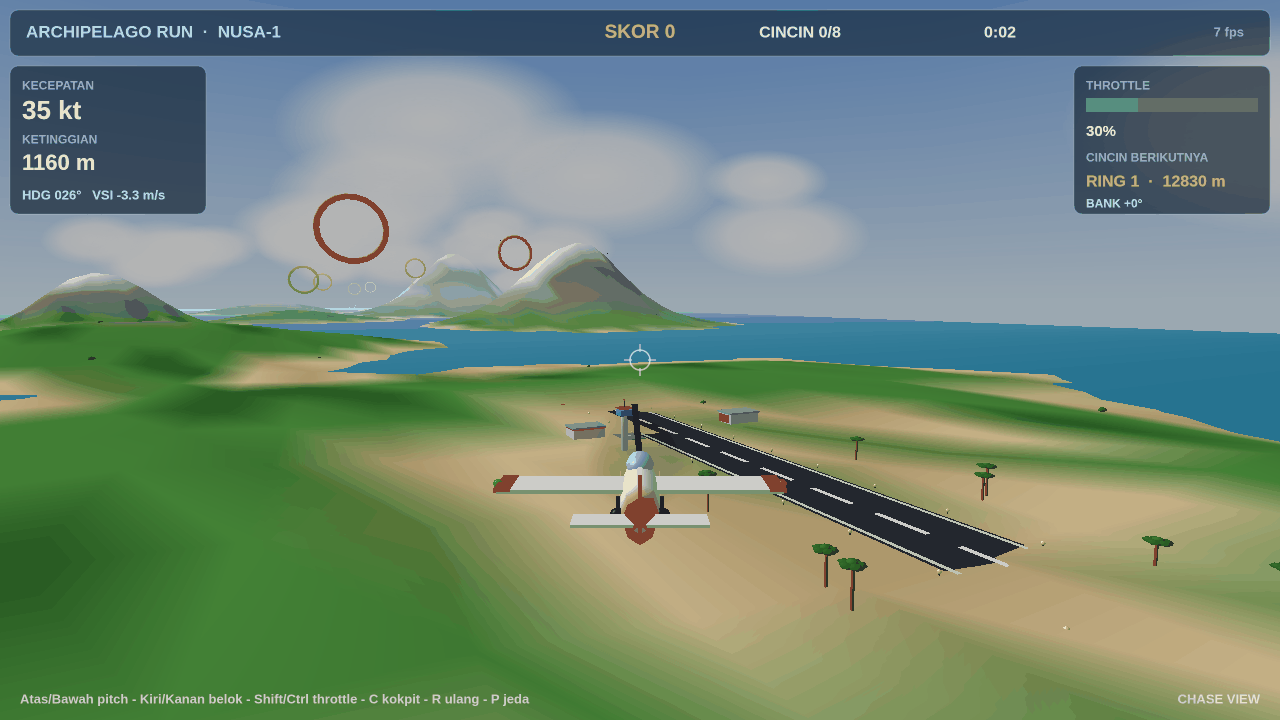
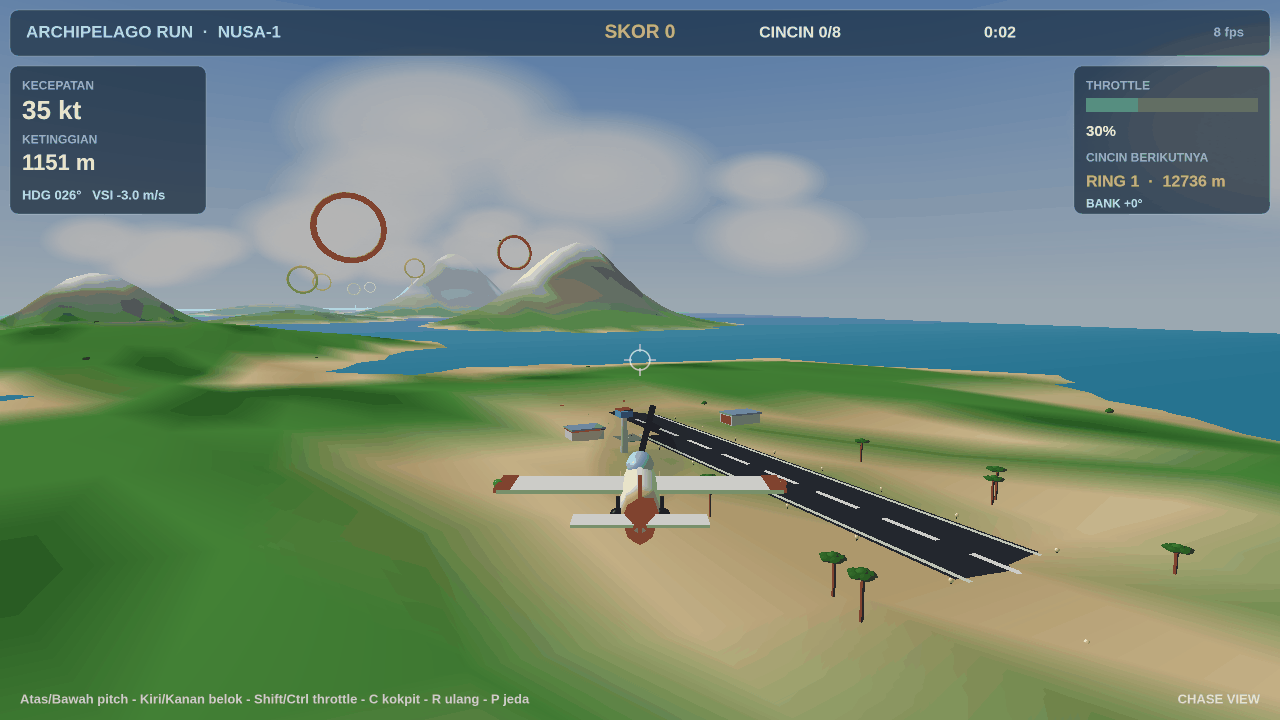
flight v2: landing shot — runway threshold now clear of the plane
- The user circled the exact spot: in the landing shot the plane sat
  right on the runway's near end, so the threshold (and its bars) hid
  behind the fuselage and the road read as cut off at the plane
- Landing preset pulled back (z 8530 -> 8435): at shot time the plane
  is ~115 short of the threshold, so the runway ends with its white
  threshold bars fully visible, a band of sand between the road's end
  and the plane — the road is complete, not cut by the plane or an edge
- Takeoff shot re-quantized to 93 KB after the re-shoot (cap 256 KiB)

diff --git a/game/index.html b/game/index.html
@@ -1328,7 +1328,7 @@ addEventListener('mousemove',e=>{mouseX=e.clientX/innerWidth;mouseActive=perform
 const scene=qs.get('scene');
 if(scene==='takeoff'){S.started=true;S.mode='flying';S.x=300;S.y=130;S.z=-450;S.heading=-0.45;S.speed=25;S.throttle=0.3;S.pitch=-0.02;}
 else if(scene==='ring'){S.started=true;S.mode='flying';S.x=380;S.y=230;S.z=2700;S.heading=0.2;S.pitch=-0.02;S.speed=70;S.throttle=0.7;S.nextRing=2;S.rings=2;S.score=200;}
-else if(scene==='landing'){S.started=true;S.mode='flying';S.x=0;S.y=55;S.z=8530;S.speed=40;S.throttle=0.3;S.pitch=-0.06;S.nextRing=8;}
+else if(scene==='landing'){S.started=true;S.mode='flying';S.x=0;S.y=55;S.z=8435;S.speed=40;S.throttle=0.3;S.pitch=-0.06;S.nextRing=8;}
 else if(scene==='cockpit'){S.started=true;S.view='cockpit';S.throttle=0.6;S.speed=30;}
 
 // ---------- main loop ----------
